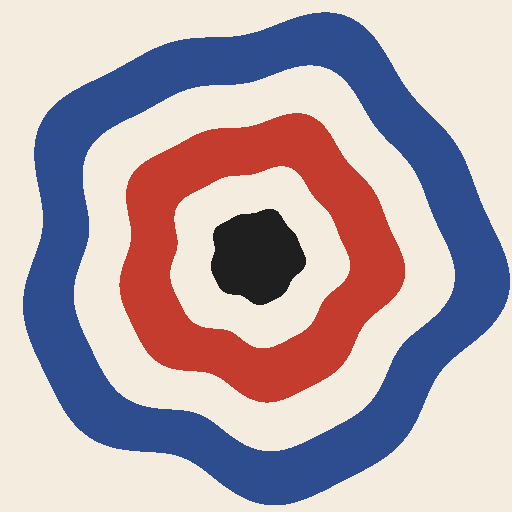
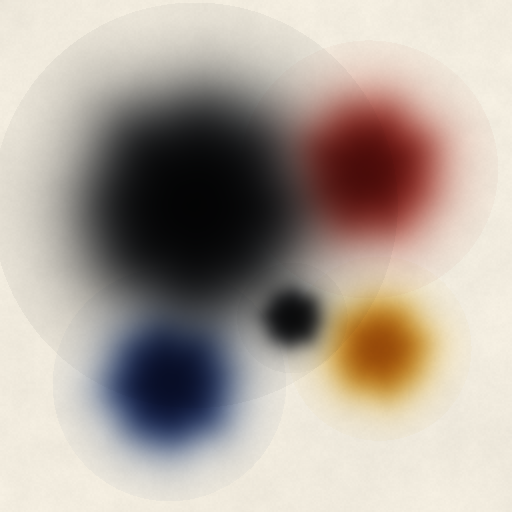
アイコンを「1歳児の墨流し遊び」デザインに刷新
旧デザインはくっきりした同心リングでアプリ実物のにじみ感と乖離していた
（Ryoフィードバック「イメージと違う」）。アプリ本体と同じ吸収モデル
（紙色 × exp(-墨密度)）+ コア/ハロ2層ガウスで、和紙の上に子供が
ぽとぽとタップしたような柔らかい5滴（墨・朱・藍・山吹・小墨）を描く。
縁の角度揺らぎは±2%以下に抑える（強くすると花びら状ノッチが出て
にじみに見えない・3回の視覚イテレーションで確認）。
アイコンはキャッシュ優先配信のためSWキャッシュ名をv5へ。

diff --git a/sw.js b/sw.js
@@ -1,6 +1,6 @@
 // すみながし Service Worker — オフラインでも遊べるように全アセットをキャッシュ
 // HTML はネットワーク優先（更新が1回の起動で届く）・静的アセットはキャッシュ優先
-const CACHE = "suminagashi-v4";
+const CACHE = "suminagashi-v5";
 const ASSETS = [
   "./",
   "./index.html",

diff --git a/gen_icons.py b/gen_icons.py
@@ -1,42 +1,90 @@
 #!/usr/bin/env python3
 """すみながしアプリのアイコンPNGを生成する（標準ライブラリのみ・Pillow不要）。
 
-同心の墨流しリング（藍・和紙・朱・和紙・墨）に正弦波の揺らぎを加えた
-マーブリング風デザイン。icon-180 / icon-192 / icon-512 を出力する。
+アプリ本体と同じ「吸収モデル（紙色 × exp(-墨密度)）」で描く:
+和紙テクスチャの上に、1歳児がぽとぽと落としたような柔らかい墨滴
+（墨・朱・藍・山吹）と、指でなぞった流れ筋。エッジは羽毛状。
+icon-180 / icon-192 / icon-512 を出力する。
 """
 import math
 import struct
 import zlib
 
-PAPER = (0xF3, 0xEC, 0xDF)
-RINGS = [
-    # (半径比, 色) — 外側から順に。中心に近いリングほど後で上書きされる
-    (0.46, (0x2E, 0x4D, 0x8E)),  # 藍
-    (0.36, PAPER),               # 和紙
-    (0.27, (0xC4, 0x3C, 0x2E)),  # 朱
-    (0.17, PAPER),               # 和紙
-    (0.09, (0x1F, 0x1F, 0x1F)),  # 墨
+PAPER = (0.945, 0.922, 0.871)
+ABSORB_K = 2.6  # アプリの displayShader と同じ減衰係数
+
+# 吸収ベクトル（index.html の INKS / PALETTE_INKS と同一）
+SUMI = (0.85, 0.83, 0.79)
+SHU = (0.26, 0.70, 0.74)
+AI = (0.80, 0.66, 0.40)
+YAMABUKI = (0.12, 0.30, 0.82)
+
+# 墨滴: (中心x, 中心y, 半径, 濃さ, 吸収ベクトル, 揺らぎ位相) — 座標/半径は 0..1
+# 1歳児が画面をぽとぽとタップした感じ: 大きい墨1つ + 色とりどりの小滴
+DROPS = [
+    (0.38, 0.40, 0.165, 1.50, SUMI, 0.7),      # 主役の墨（左上寄り・大きく）
+    (0.72, 0.33, 0.105, 1.25, SHU, 2.9),       # 朱
+    (0.33, 0.75, 0.095, 1.25, AI, 5.1),        # 藍
+    (0.74, 0.68, 0.075, 1.15, YAMABUKI, 1.8),  # 山吹
+    (0.57, 0.62, 0.045, 1.00, SUMI, 4.2),      # 墨の小滴（ちょん、と）
 ]
+
+
+def hash01(ix, iy):
+    """決定論の擬似乱数（シェーダの hash と同役割）。"""
+    return math.modf(math.sin(ix * 127.1 + iy * 311.7) * 43758.5453123)[0] % 1.0
+
+
+def vnoise(x, y):
+    """値ノイズ（バイリニア補間）。"""
+    ix, fx = math.floor(x), x - math.floor(x)
+    iy, fy = math.floor(y), y - math.floor(y)
+    fx = fx * fx * (3 - 2 * fx)
+    fy = fy * fy * (3 - 2 * fy)
+    a = hash01(ix, iy)
+    b = hash01(ix + 1, iy)
+    c = hash01(ix, iy + 1)
+    d = hash01(ix + 1, iy + 1)
+    return a + (b - a) * fx + (c - a) * fy + (a - b - c + d) * fx * fy
 
 
 def render(size):
     """RGBAバッファ（PNGスキャンライン形式）を生成。"""
+    blobs = DROPS
     rows = []
-    half = size / 2
-    for y in range(size):
+    for py in range(size):
         row = bytearray()
         row.append(0)  # PNG filter type: None
-        for x in range(size):
-            dx, dy = x - half, y - half
-            d = math.hypot(dx, dy)
-            a = math.atan2(dy, dx)
-            # 角度に応じて半径しきい値を波打たせる（マーブリング感）
-            wobble = 1 + 0.06 * math.sin(5 * a + 1.3) + 0.03 * math.sin(9 * a)
-            color = PAPER
-            for ratio, ring_color in RINGS:
-                if d < size * ratio * wobble:
-                    color = ring_color
-            row += bytes(color) + b"\xff"
+        v = py / size
+        for px in range(size):
+            u = px / size
+            # --- 和紙: 低周波の繊維ムラ + 粒子（displayShader と同式） ---
+            fiber = (vnoise(u * 6, v * 6) * 0.45
+                     + vnoise(u * 25, v * 25) * 0.35
+                     + vnoise(u * 110, v * 110) * 0.20)
+            speck = hash01(px // 2, py // 2)
+            shade = 0.965 + 0.055 * fiber + 0.012 * speck
+            # --- 墨密度の合成（色ごとの吸収 × コア+ハロの2層減衰） ---
+            dens = [0.0, 0.0, 0.0]
+            for (cx, cy, r, amp, absorb, phase) in blobs:
+                dx, dy = u - cx, v - cy
+                d2 = dx * dx + dy * dy
+                if d2 > (r * 2.4) ** 2:
+                    continue
+                ang = math.atan2(dy, dx)
+                # 縁の揺らぎはごく僅か（強いと花びら状のノッチが出る・実物のにじみは滑らかな円）
+                wob = 1 + 0.018 * math.sin(5 * ang + phase) + 0.010 * math.sin(8 * ang + phase * 1.7)
+                dn = math.sqrt(d2) / max(r * wob, 1e-6)
+                # コア（濃い芯）+ ハロ（羽毛状のにじみ）。ハロは控えめに（広げすぎると濁る）
+                g = amp * (math.exp(-dn ** 2.4) + 0.28 * math.exp(-((dn / 1.35) ** 2.0)))
+                dens[0] += absorb[0] * g
+                dens[1] += absorb[1] * g
+                dens[2] += absorb[2] * g
+            color = bytes(
+                max(0, min(255, round(PAPER[i] * shade * math.exp(-ABSORB_K * dens[i]) * 255)))
+                for i in range(3)
+            )
+            row += color + b"\xff"
         rows.append(bytes(row))
     return b"".join(rows)
 
